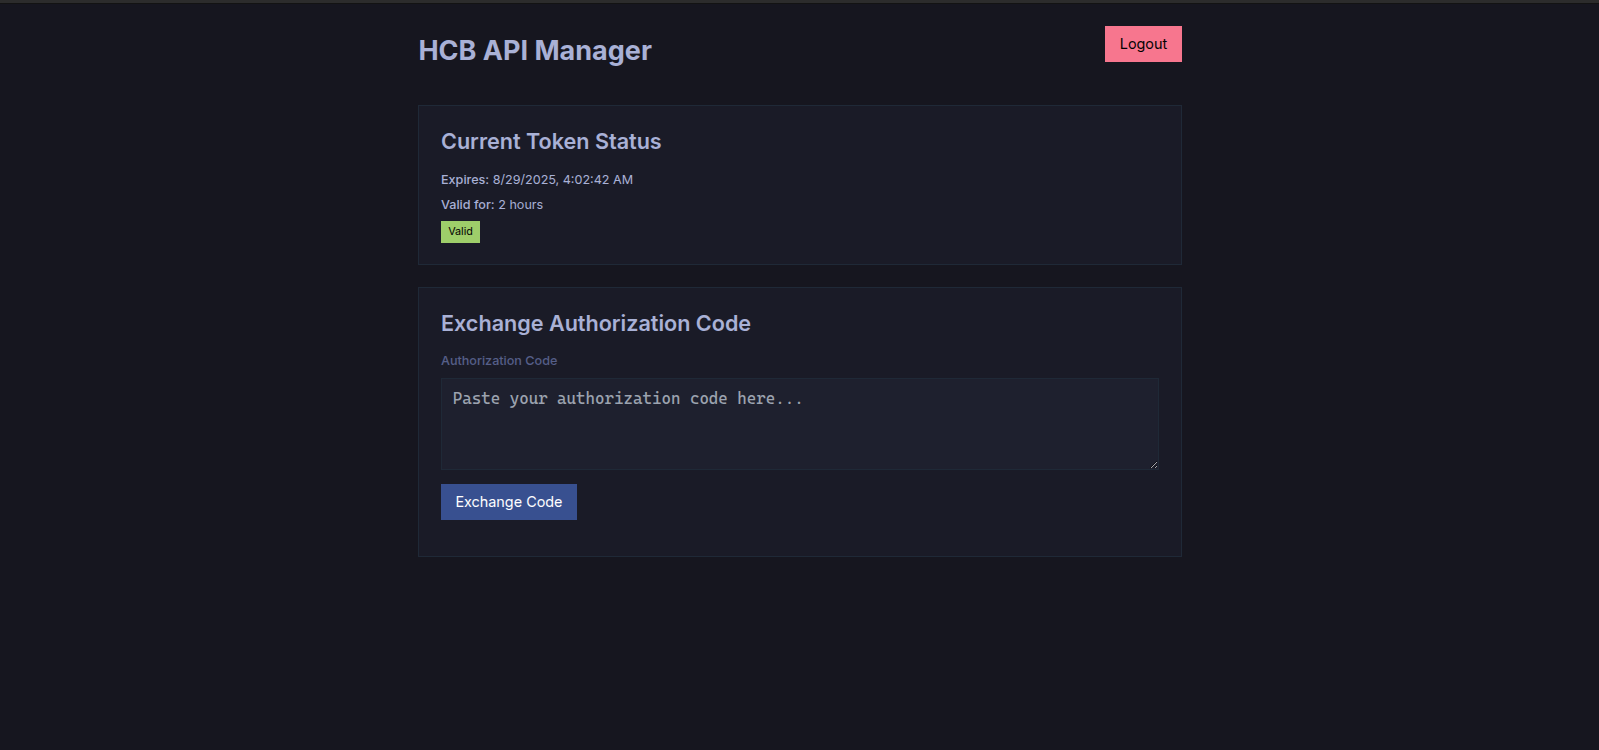
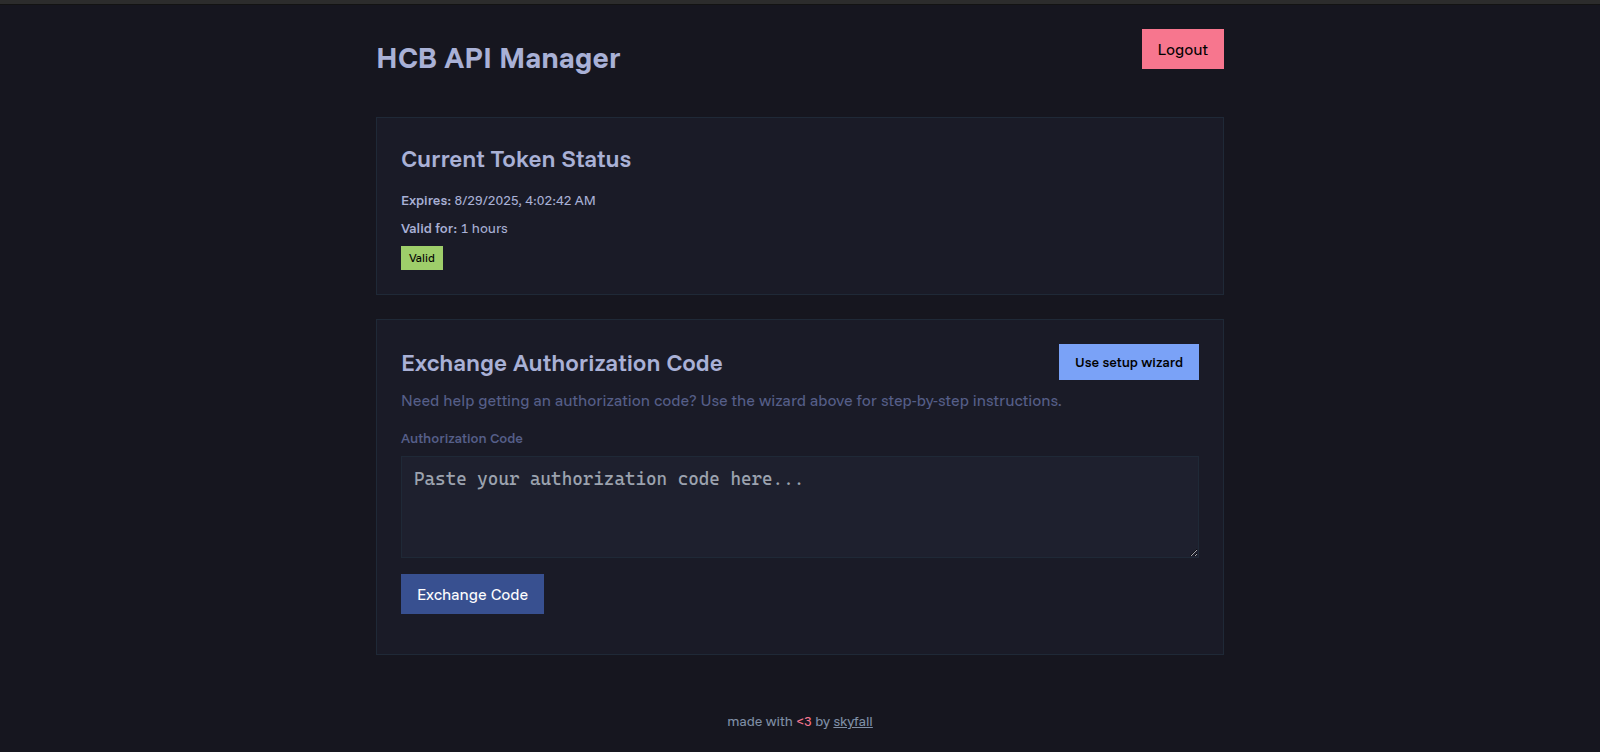
Add setup wizard

diff --git a/src/components/OAuthWizard.tsx b/src/components/OAuthWizard.tsx
@@ -1,0 +1,143 @@
+import { Layout } from "../layouts"
+
+export const OAuthWizard = () => (
+  <Layout>
+    <div className="min-h-[90%] max-w-4xl mx-auto p-6">
+      <div className="flex justify-between items-center mb-8">
+        <h1 className="text-3xl font-bold">HCB OAuth Setup Wizard</h1>
+        <a href="/dashboard" className="text-[#7aa2f7] hover:underline">
+          ← Back to Dashboard
+        </a>
+      </div>
+
+      <div className="space-y-8">
+        {/* Step 1 */}
+        <div className="bg-[#1a1b27] border border-gray-800 p-6">
+          <div className="flex items-center mb-4">
+            <div className="bg-[#7aa2f7] text-black rounded-full w-8 h-8 flex items-center justify-center font-bold mr-3">
+              1
+            </div>
+            <h2 className="text-2xl font-semibold">Authorize HCB Access</h2>
+          </div>
+          <p className="text-[#565f89] mb-4">
+            First, you need to authorize this application to access your HCB account.
+          </p>
+          <a
+            href="https://hcb.hackclub.com/api/v4/oauth/authorize?client_id=yt8JHmPDmmYYLUmoEiGtocYwg5fSOGCrcIY3G-vkMRs&redirect_uri=hcb%3A%2F%2F&response_type=code&scope=read%20write"
+            target="_blank"
+            rel="noopener noreferrer"
+            className="inline-block bg-[#7aa2f7] text-black px-6 py-3 hover:brightness-110 transition font-medium"
+          >
+            Open HCB Authorization Page →
+          </a>
+        </div>
+
+        {/* Step 2 */}
+        <div className="bg-[#1a1b27] border border-gray-800 p-6">
+          <div className="flex items-center mb-4">
+            <div className="bg-[#9ece6a] text-black rounded-full w-8 h-8 flex items-center justify-center font-bold mr-3">
+              2
+            </div>
+            <h2 className="text-2xl font-semibold">Get Authorization Code</h2>
+          </div>
+          <div className="space-y-4">
+            <p className="text-[#565f89]">
+              After clicking "Authorize" on the HCB page, you'll need to extract the authorization code:
+            </p>
+            <div className="bg-[#1e202e] border border-gray-700 p-4 space-y-3">
+              <div className="flex items-start space-x-3">
+                <div className="bg-[#f7768e] text-black rounded-full w-6 h-6 flex items-center justify-center text-sm font-bold mt-1 flex-shrink-0">
+                  a
+                </div>
+                <div>
+                  <p className="font-medium">Open Browser Developer Tools</p>
+                  <p className="text-sm text-[#565f89]">Press <kbd className="bg-[#565f89] text-white px-2 py-1 text-xs">Ctrl+Shift+I</kbd> (or <kbd className="bg-[#565f89] text-white px-2 py-1 text-xs">Cmd+Shift+I</kbd> on Mac)</p>
+                </div>
+              </div>
+              <div className="flex items-start space-x-3">
+                <div className="bg-[#f7768e] text-black rounded-full w-6 h-6 flex items-center justify-center text-sm font-bold mt-1 flex-shrink-0">
+                  b
+                </div>
+                <div>
+                  <p className="font-medium">Go to Network Tab</p>
+                  <p className="text-sm text-[#565f89]">Click on the "Network" tab in the developer tools</p>
+                </div>
+              </div>
+              <div className="flex items-start space-x-3">
+                <div className="bg-[#f7768e] text-black rounded-full w-6 h-6 flex items-center justify-center text-sm font-bold mt-1 flex-shrink-0">
+                  c
+                </div>
+                <div>
+                  <p className="font-medium">Click "Authorize" on HCB</p>
+                  <p className="text-sm text-[#565f89]">This will trigger a network request</p>
+                </div>
+              </div>
+              <div className="flex items-start space-x-3">
+                <div className="bg-[#f7768e] text-black rounded-full w-6 h-6 flex items-center justify-center text-sm font-bold mt-1 flex-shrink-0">
+                  d
+                </div>
+                <div>
+                  <p className="font-medium">Find the Authorization Code</p>
+                  <p className="text-sm text-[#565f89]">
+                    Look for an "authorize" request → Response Headers → Location header
+                  </p>
+                  <p className="text-sm text-[#565f89] mt-1">
+                    It should look like: <code className="bg-[#565f89] text-white px-1">hcb://?code=YOUR_CODE_HERE</code>
+                  </p>
+                </div>
+              </div>
+            </div>
+          </div>
+        </div>
+
+        {/* Step 3 */}
+        <div className="bg-[#1a1b27] border border-gray-800 p-6">
+          <div className="flex items-center mb-4">
+            <div className="bg-[#e0af68] text-black rounded-full w-8 h-8 flex items-center justify-center font-bold mr-3">
+              3
+            </div>
+            <h2 className="text-2xl font-semibold">Exchange Authorization Code</h2>
+          </div>
+          <p className="text-[#565f89] mb-4">
+            Copy the code from the URL (everything after <code className="bg-[#565f89] text-white px-1">code=</code>) and paste it below:
+          </p>
+          <form action="/exchange" method="POST" className="space-y-4">
+            <div>
+              <label htmlFor="code" className="block text-sm font-medium text-[#565f89] mb-2">
+                Authorization Code
+              </label>
+              <div className="relative">
+                <textarea
+                  id="code"
+                  name="code"
+                  required
+                  rows={3}
+                  className="w-full px-3 py-2 text-lg bg-[#1e202e] border border-gray-800 focus:outline-none focus:ring-2 focus:ring-[#7aa2f7]"
+                  placeholder="e.g., pnbZE22FDA-cd919de5cd0d71b0121a6ac"
+                ></textarea>
+              </div>
+              <p className="text-xs text-[#565f89] mt-1">
+                Tip: The code should be about 30-40 characters long
+              </p>
+            </div>
+            <button
+              type="submit"
+              className="bg-[#9ece6a] text-black py-3 px-6 hover:brightness-110 transition font-medium text-lg"
+            >
+              Exchange Code & Complete Setup
+            </button>
+          </form>
+        </div>
+
+        {/* Help Section */}
+        <div className="bg-[#1e202e] border border-gray-700 p-6">
+          <h3 className="text-lg font-semibold mb-3 text-[#bb9af7]">Need help?</h3>
+          <div className="space-y-2 text-sm text-[#565f89]">
+            <p>• If you don't see the Network tab, make sure DevTools are open</p>
+            <p>• If you get stuck, you can always start over by clicking the authorization link again</p>
+          </div>
+        </div>
+      </div>
+    </div>
+  </Layout>
+)

diff --git a/src/components/Dashboard.tsx b/src/components/Dashboard.tsx
@@ -1,7 +1,15 @@
 import { Layout } from "../layouts"
 import { TokenInfo } from "../types"
 
-export const Dashboard = ({ tokenInfo }: { tokenInfo: TokenInfo | null }) => (
+export const Dashboard = ({
+  tokenInfo,
+  success,
+  error
+}: {
+  tokenInfo: TokenInfo | null
+  success?: string | null
+  error?: string | null
+}) => (
   <Layout>
     <div className="min-h-[90%] max-w-4xl mx-auto p-6">
       <div className="flex justify-between items-center mb-8">
@@ -12,6 +20,25 @@ export const Dashboard = ({ tokenInfo }: { tokenInfo: TokenInfo | null }) => (
           </button>
         </form>
       </div>
+
+      {/* Success/Error Messages */}
+      {success === 'token_exchanged' && (
+        <div className="bg-[#1e202e] border border-[#9ece6a] p-4 mb-6 rounded">
+          <p className="text-[#9ece6a] font-medium">🎉 Success!</p>
+          <p className="text-sm text-[#565f89]">
+            Your authorization code has been successfully exchanged for an access token. You can now use the HCB API proxy!
+          </p>
+        </div>
+      )}
+
+      {error === 'exchange_failed' && (
+        <div className="bg-[#1e202e] border border-[#f7768e] p-4 mb-6 rounded">
+          <p className="text-[#f7768e] font-medium">❌ Exchange Failed</p>
+          <p className="text-sm text-[#565f89]">
+            There was an error exchanging your authorization code. Please try again or use the setup wizard for help.
+          </p>
+        </div>
+      )}
 
       {/* Token Status */}
       <div className="bg-[#1a1b27] border border-gray-800 p-6 mb-6">
@@ -29,13 +56,38 @@ export const Dashboard = ({ tokenInfo }: { tokenInfo: TokenInfo | null }) => (
             </div>
           </div>
         ) : (
-          <p className="text-gray-500">No token found</p>
+          <div className="space-y-3">
+            <p className="text-gray-500">No token found</p>
+            <div className="bg-[#1e202e] border border-[#f7768e] p-4 rounded">
+              <p className="text-[#f7768e] font-medium mb-2">⚠ Setup Required</p>
+              <p className="text-sm text-[#565f89] mb-3">
+                You need to complete the OAuth setup to start using the HCB API proxy.
+              </p>
+              <a
+                href="/oauth-wizard"
+                className="inline-block bg-[#7aa2f7] text-black px-4 py-2 hover:brightness-110 transition font-medium text-sm"
+              >
+                🚀 Start Setup Wizard
+              </a>
+            </div>
+          </div>
         )}
       </div>
 
       {/* Exchange Code Form */}
       <div className="bg-[#1a1b27] border border-gray-800 p-6">
-        <h2 className="text-2xl font-semibold mb-4">Exchange Authorization Code</h2>
+        <div className="flex justify-between items-center mb-2">
+          <h2 className="text-2xl font-semibold">Exchange Authorization Code</h2>
+          <a
+            href="/oauth-wizard"
+            className="bg-[#7aa2f7] text-black px-4 py-2 hover:brightness-110 transition text-sm font-medium"
+          >
+            Use setup wizard
+          </a>
+        </div>
+        <p className="text-[#565f89] mb-4">
+          Need help getting an authorization code? Use the wizard above for step-by-step instructions.
+        </p>
         <form action="/exchange" method="POST" className="space-y-4">
           <div>
             <label htmlFor="code" className="block text-sm font-medium text-[#565f89] mb-2">

diff --git a/src/index.tsx b/src/index.tsx
@@ -6,13 +6,16 @@ import {
   logoutHandler,
   exchangeHandler,
   apiProxyHandler,
-  loginPageHandler
+  loginPageHandler,
+  oauthWizardHandler
 } from "./routes"
 
 const app = new Hono()
 
 // Routes
 app.get('/', requireAuth, dashboardHandler)
+app.get('/dashboard', requireAuth, dashboardHandler)
+app.get('/oauth-wizard', requireAuth, oauthWizardHandler)
 app.get('/login-page', loginPageHandler)
 app.post('/login', loginHandler)
 app.post('/logout', logoutHandler)

diff --git a/src/routes/exchange.ts b/src/routes/exchange.ts
@@ -10,7 +10,7 @@ export const exchangeHandler = async (c: Context) => {
     const tokenResponse = await exchangeCodeForTokens(code, env.HCB_CLIENT_ID)
     await Bun.file(env.TOKEN_FILE_PATH).write(JSON.stringify(tokenResponse, null, 2))
 
-    return c.redirect('/')
+    return c.redirect('/?success=token_exchanged')
   } catch (error) {
     console.error('Exchange error:', error)
     return c.redirect('/?error=exchange_failed')

diff --git a/src/routes/dashboard.ts b/src/routes/dashboard.ts
@@ -14,5 +14,9 @@ export const dashboardHandler = async (c: Context) => {
     // Token file doesn't exist or is invalid
   }
 
-  return c.html(Dashboard({ tokenInfo }) as unknown as string)
+  // Check for success/error query parameters
+  const success = c.req.query('success')
+  const error = c.req.query('error')
+
+  return c.html(Dashboard({ tokenInfo, success, error }) as unknown as string)
 }

diff --git a/src/routes/index.ts b/src/routes/index.ts
@@ -4,3 +4,4 @@ export { loginHandler, logoutHandler } from "./auth"
 export { exchangeHandler } from "./exchange"
 export { apiProxyHandler } from "./api"
 export { loginPageHandler } from "./loginPage"
+export { oauthWizardHandler } from "./oauthWizard"

diff --git a/src/routes/oauthWizard.ts b/src/routes/oauthWizard.ts
@@ -1,0 +1,6 @@
+import { Context } from "hono"
+import { OAuthWizard } from "../components"
+
+export const oauthWizardHandler = async (c: Context) => {
+  return c.html(OAuthWizard() as unknown as string)
+}

diff --git a/src/components/index.ts b/src/components/index.ts
@@ -1,3 +1,4 @@
 // Re-export all components
 export { LoginPage } from "./LoginPage"
 export { Dashboard } from "./Dashboard"
+export { OAuthWizard } from "./OAuthWizard"

diff --git a/README.md b/README.md
@@ -1,10 +1,21 @@
 # HCB API proxy
 
+A super easy way to use the [HCB v4 API](https://hcb-developers.anscg.net/api-reference/), even if you are not a member of HQ. Normally, you'd have to get a member of the HCB engineering team to create an OAuth app for you, but OAuth apps are HQ-only and can be annoying to use.
+
+HCB-API handles things like token refreshes and code exchanges for you, so you don't have to worry about things like access tokens expiring. In other words, HCB-API makes v4 authentication much simpler.
+
+Once it's set up, it's very similar to using the standard v4 API, except you simply use the HCB-API domain instead of `hcb.hackclub.com`. For example, if you want to use the `https://hcb.hackclub.com/api/v4/user/card_grants` endpoint, do something like this:
+
+```bash
+curl https://your_hcb_api_domain.com/api/v4/user/card_grants \
+  --header 'Authorization: Bearer YOUR_MASTER_KEY'
+```
+
 ## Initial setup
 
 This will take about 10-15 minutes.
 
-To install dependencies:
+First, install dependencies:
 
 ```bash
 bun install
@@ -15,6 +26,7 @@ Fill in the `.env`:
 ```
 HCB_CLIENT_ID="yt8JHmPDmmYYLUmoEiGtocYwg5fSOGCrcIY3G-vkMRs" # HCB Mobile
 MASTER_KEY="..." # cat /dev/urandom | head -30 | sha256sum
+NODE_ENV=production
 ```
 
 To run:
@@ -27,20 +39,10 @@ Visit `localhost:3000` (or whatever the domain is) and sign in with the master k
 
 ![Login page](.github/login.png)
 
-Then, click [here](https://hcb.hackclub.com/api/v4/oauth/authorize?client_id=yt8JHmPDmmYYLUmoEiGtocYwg5fSOGCrcIY3G-vkMRs&redirect_uri=hcb%3A%2F%2F&response_type=code&scope=read%20write) to visit HCB Mobile's authorization page.
+Then, click the "Use setup wizard" button to connect HCB-API with your HCB account.
 
-![HCB Mobile OAuth page](.github/hcb-screen.png)
-
-Open DevTools with `Ctrl+Shift+I`/`Cmd+Shift+I` and navigate to the Network tab.
-
-Then, click the "Authorize" button on the page. You will see an `authorize` request in the Network tab - click into it and scroll down to the `Location` response header. It should look like this:
-
-```
-hcb://?code=pnbZE22FDA-cd919de5cd0d71b0121a6ac
-```
-
-Copy the `code` parameter and paste it into the UI. The page should hopefully look like this:
+The dashboard should hopefully look like this:
 
 ![UI](.github/dashboard.png)
 
-Tokens are refreshed every two hours automatically.
+If you reached this stage, you're done! You can now call the HCB API with the proxy. (See above)
